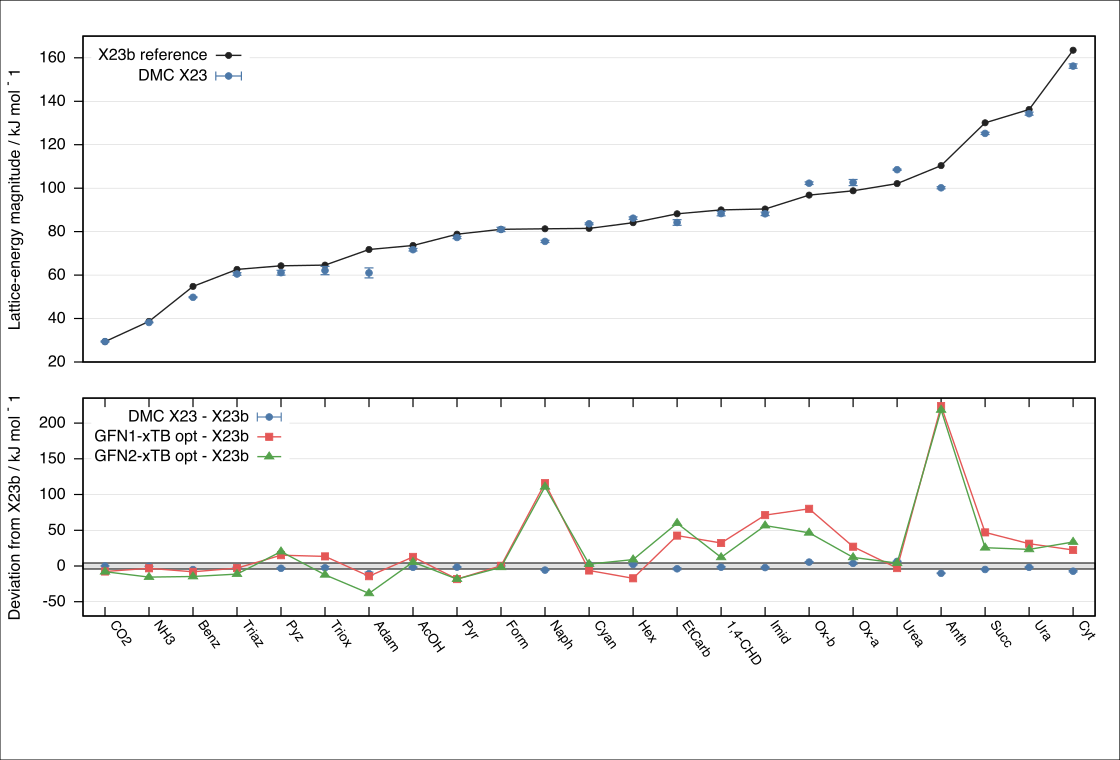
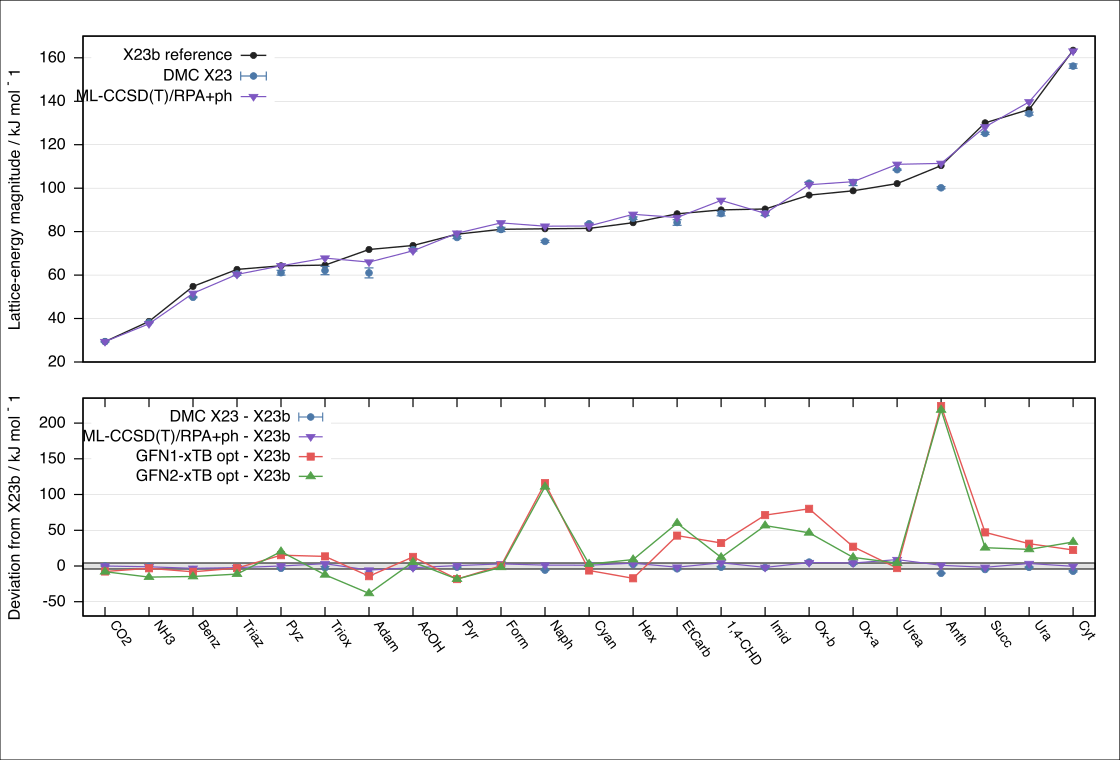
Add ML-CCSD reference to X23b profile

diff --git a/X23b/scripts/x23b_pipeline.py b/X23b/scripts/x23b_pipeline.py
@@ -942,17 +942,18 @@ def make_prl_style_plot(rows_energy: list[dict[str, object]]) -> None:
     systems = sorted(SYSTEMS, key=lambda item: float(item["ref_energy"]))
     dat = DATA / "x23b_prl_style.dat"
     with dat.open("w") as handle:
-        handle.write("# index label x23b_ref dmc dmc_err dmc_minus_x23b gfn1_minus_x23b gfn2_minus_x23b\n")
+        handle.write("# index label x23b_ref dmc dmc_err mlcc dmc_minus_x23b mlcc_minus_x23b gfn1_minus_x23b gfn2_minus_x23b\n")
         for index, system in enumerate(systems, start=1):
             system_id = str(system["id"])
             ref = float(system["ref_energy"])
             dmc, dmc_err = DMC_X23[system_id]
+            mlcc = MULTILEVEL_CC_X23[system_id]
             gfn1 = lookup.get((system_id, "GFN1-xTB"), float("nan"))
             gfn2 = lookup.get((system_id, "GFN2-xTB"), float("nan"))
             label = PLOT_LABELS[system_id]
             handle.write(
-                f'{index} "{label}" {ref:.6f} {dmc:.6f} {dmc_err:.6f} '
-                f"{dmc - ref:.6f} {gfn1:.6f} {gfn2:.6f}\n"
+                f'{index} "{label}" {ref:.6f} {dmc:.6f} {dmc_err:.6f} {mlcc:.6f} '
+                f"{dmc - ref:.6f} {mlcc - ref:.6f} {gfn1:.6f} {gfn2:.6f}\n"
             )
 
     svg = FIGURES / "x23b_lattice_energy_prl_style.svg"
@@ -975,7 +976,8 @@ set ylabel 'Lattice-energy magnitude / kJ mol^{-1}'
 set yrange [20:170]
 set key top left spacing 1.15 samplen 2
 plot '{dat}' using 1:3 with linespoints lt 1 lw 1.4 pt 7 ps 0.7 lc rgb '#222222' title 'X23b reference', \\
-     '' using 1:4:5 with yerrorbars pt 7 ps 0.75 lw 1.2 lc rgb '#4C78A8' title 'DMC X23'
+     '' using 1:4:5 with yerrorbars pt 7 ps 0.75 lw 1.2 lc rgb '#4C78A8' title 'DMC X23', \\
+     '' using 1:6 with linespoints lt 1 lw 1.2 pt 11 ps 0.75 lc rgb '#7E57C2' title 'ML-CCSD(T)/RPA+ph'
 
 unset object 100
 set tmargin 1
@@ -987,9 +989,10 @@ set ytics 50
 set yzeroaxis lt -1 lw 1.0 lc rgb '#555555'
 set object 1 rectangle from graph 0, first -4.184 to graph 1, first 4.184 fillcolor rgb '#e6e6e6' behind
 set key top left spacing 1.1 samplen 1.8
-plot '{dat}' using 1:6:5 with yerrorbars pt 7 ps 0.75 lw 1.1 lc rgb '#4C78A8' title 'DMC X23 - X23b', \\
-     '' using 1:7:xtic(2) with linespoints lt 1 lw 1.4 pt 5 ps 0.8 lc rgb '#E45756' title 'GFN1-xTB opt - X23b', \\
-     '' using 1:8 with linespoints lt 1 lw 1.4 pt 9 ps 0.8 lc rgb '#54A24B' title 'GFN2-xTB opt - X23b'
+plot '{dat}' using 1:7:5 with yerrorbars pt 7 ps 0.75 lw 1.1 lc rgb '#4C78A8' title 'DMC X23 - X23b', \\
+     '' using 1:8 with linespoints lt 1 lw 1.2 pt 11 ps 0.75 lc rgb '#7E57C2' title 'ML-CCSD(T)/RPA+ph - X23b', \\
+     '' using 1:9:xtic(2) with linespoints lt 1 lw 1.4 pt 5 ps 0.8 lc rgb '#E45756' title 'GFN1-xTB opt - X23b', \\
+     '' using 1:10 with linespoints lt 1 lw 1.4 pt 9 ps 0.8 lc rgb '#54A24B' title 'GFN2-xTB opt - X23b'
 unset multiplot
 """
     subprocess.run(["gnuplot"], input=script.encode(), check=True)